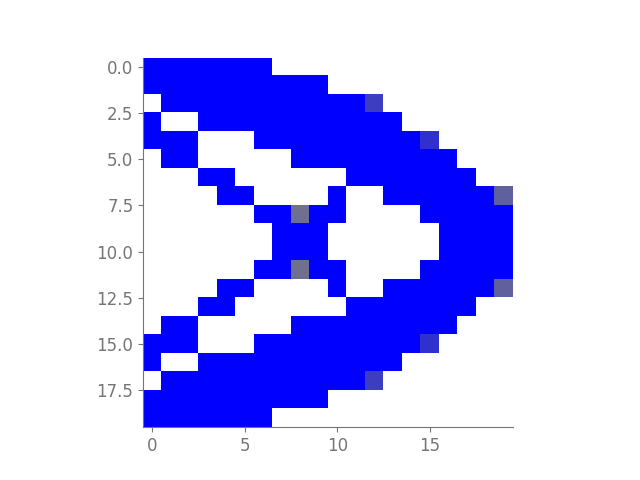
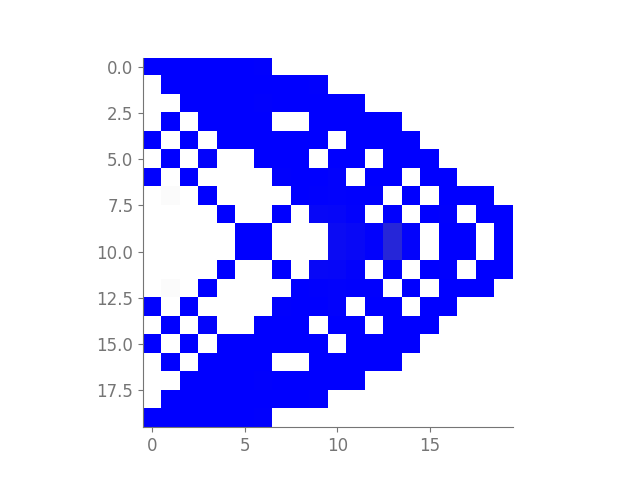
updated example

diff --git a/examples/fixed_plate_point_load.py b/examples/fixed_plate_point_load.py
@@ -3,7 +3,7 @@ from topopt.physical import PhysicalModel, Material
 from topopt.mesh import Displacement, Load, Mesh
 
 volfrac = 0.5
-ndiv = 10
+ndiv = 20
 
 mesh = Mesh()
 mesh.rect_mesh(ndiv)
@@ -19,7 +19,7 @@ mat.set_structural_params(2.1e5,.3)
 
 pmodel = PhysicalModel(mesh,mat,support,loads)
 
-optimizer = StructuralOptim(pmodel,volfrac,3)
+optimizer = StructuralOptim(pmodel,volfrac,5)
 optimizer.run()
 
 visu = Visualizer(pmodel)
